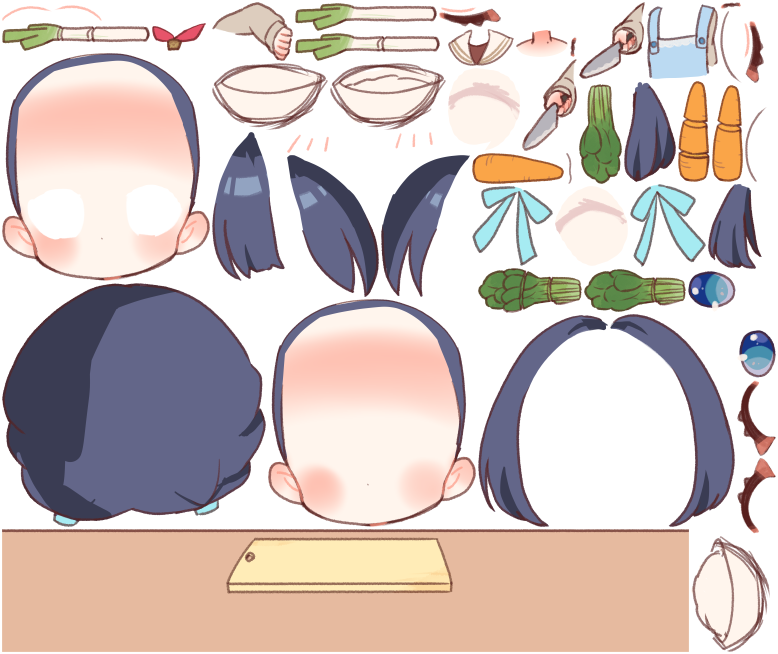
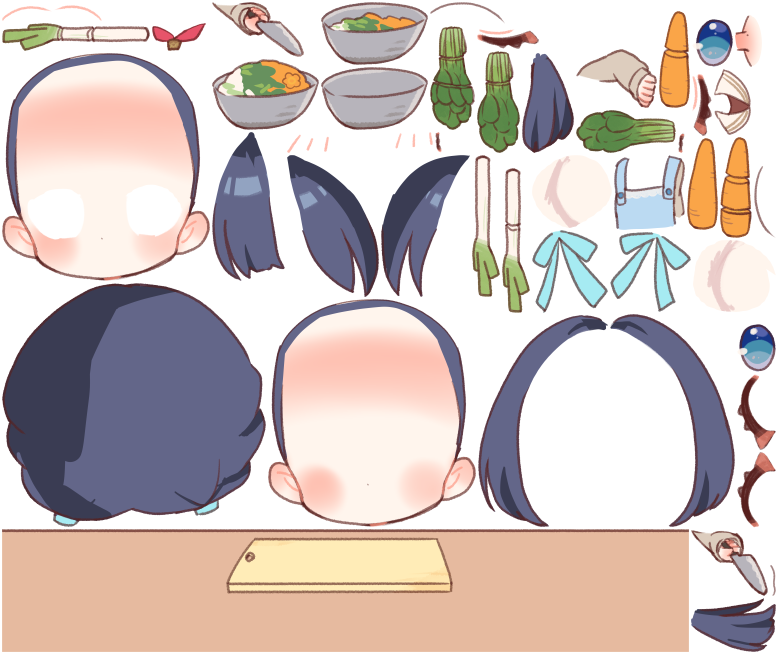
chore: add bown anim

Changed region(s): [[0.2468, 0.0, 0.9871, 0.4893], [0.8946, 0.4893, 1.0, 1.0], [0.8638, 0.8869, 0.8946, 0.9174]]

diff --git a/lovelive/sayaka-bd-2023/src/pages/GamePage.vue b/lovelive/sayaka-bd-2023/src/pages/GamePage.vue
@@ -45,12 +45,13 @@ const sayaka = getSpine("game_sayaka");
 const SKELETON_CONST = {
   SLOT: {
     VEGETABLE: "vegetable",
+    BOWL: "bowl",
   },
 };
 
 let canClick = false;
 let requiredCount = 3 * getRandomInt(2, 4);
-let currentCurrent = 0;
+let currentCount = 0;
 
 const getVegetableRandomly = () => {
   const map = {
@@ -91,7 +92,7 @@ const init = async () => {
 };
 
 const isFinished = () => {
-  return requiredCount <= currentCurrent;
+  return requiredCount <= currentCount;
 };
 
 const onClick = () => {
@@ -99,21 +100,21 @@ const onClick = () => {
     return;
   }
 
-  const attachmentName = sayakaSkeletonMesh.skeleton
+  const vegetableAttachment = sayakaSkeletonMesh.skeleton
     ?.findSlot(SKELETON_CONST.SLOT.VEGETABLE)
     ?.getAttachment()?.name;
 
-  if (!attachmentName) {
+  if (!vegetableAttachment) {
     return;
   }
 
-  const numberString = attachmentName.slice(-1);
+  const numberString = vegetableAttachment.slice(-1);
   const number = Number(numberString);
-  const type = attachmentName.replace(numberString, "");
+  const type = vegetableAttachment.replace(numberString, "");
 
   if (number === 1 || number === 2) {
     canClick = false;
-    currentCurrent += 1;
+    currentCount += 1;
 
     const cutAnim = sayakaSkeletonMesh.state.setAnimation(0, "cut");
     cutAnim.listener = {
@@ -130,17 +131,18 @@ const onClick = () => {
 
   if (number === 3) {
     canClick = false;
-    currentCurrent += 1;
-
-    if (isFinished()) {
-      emit("finish");
-      return;
-    }
+    currentCount += 1;
 
     const slideAnim = sayakaSkeletonMesh.state.setAnimation(0, "slide");
     slideAnim.listener = {
       complete: () => {
         canClick = true;
+
+        const bowlNumber = Math.min(1 + Math.floor(currentCount / 3), 3);
+        sayakaSkeletonMesh?.skeleton.setAttachment(
+          SKELETON_CONST.SLOT.BOWL,
+          `bowl${bowlNumber}`,
+        );
 
         if (isFinished()) {
           emit("finish");
